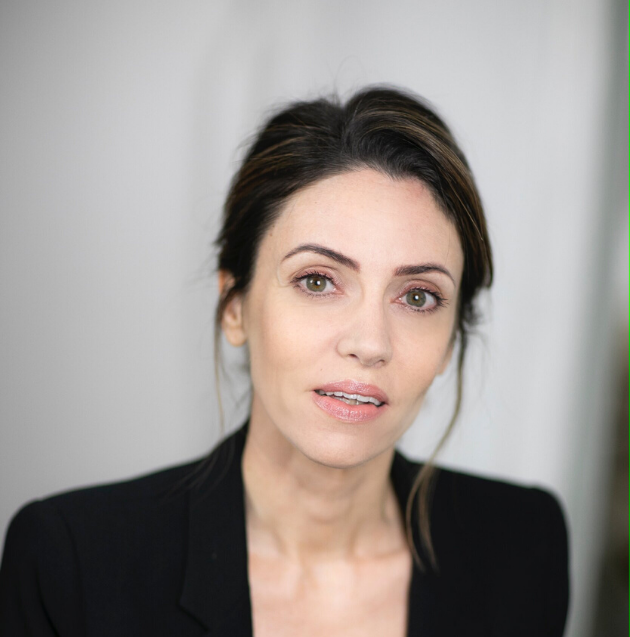
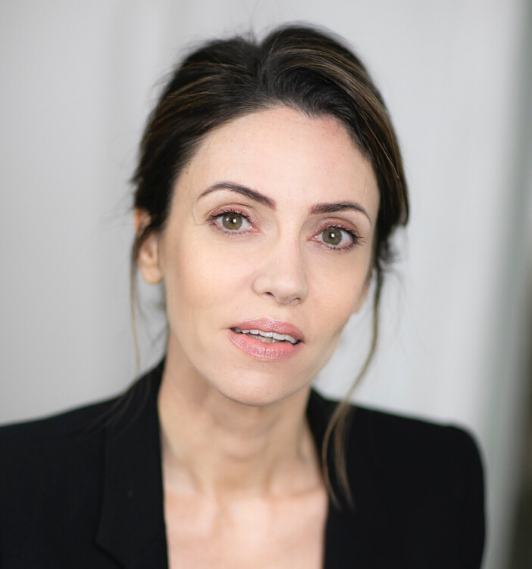
Change Login Background

diff --git a/admin/config.php b/admin/config.php
@@ -66,7 +66,7 @@ if (isset($_POST['submit_about'])) {
         echo '
         <script type="text/javascript">
         alert("Please upload an image."); 
-        window.location.href="index.php";
+        window.location.href="admin.php";
   </script>';
         $uploadOk = 0;
     }
@@ -81,11 +81,15 @@ if (isset($_POST['submit_about'])) {
             WHERE id=1");
             echo '
 			<script type="text/javascript">
-				  alert("Event has been updated successfully..!"); 
-				  window.location.href="index.php";
+				  alert("CV Deatails updated successfully..!"); 
+				  window.location.href="admin.php";
 			</script>';
         } else {
-            echo "Sorry, there was an error uploading your file.";
+            echo '
+            <script type="text/javascript">
+				  alert("Sorry, there was an error uploading your file."); 
+				  window.location.href="admin.php";
+			</script>';
         }
     }
 

diff --git a/admin/index.php b/admin/index.php
@@ -25,7 +25,7 @@
 
 <body>
     <div class="limiter">
-        <div class="container-login100" style="background-image: url('assets/images/bg-login.jpg');">
+        <div class="container-login100" style="background-image: url('assets/images/bg.jpg');">
             <div class="wrap-login100 p-t-5 p-b-50">
                 <span class="login100-form-title p-b-41">
                     Login
@@ -45,7 +45,6 @@
                     <div class="container-login100-form-btn m-t-32">
                         <input type="submit" class="login100-form-btn" name="login" value="Login">
                     </div>
-                    <p style="margin-left:20px;margin-top:10px">Haven't Account ? <a href="register.php">Register</a></p>
                 </form>
             </div>
         </div>
